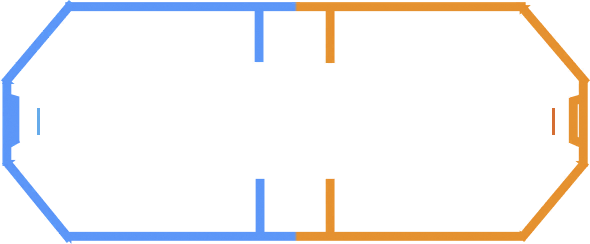
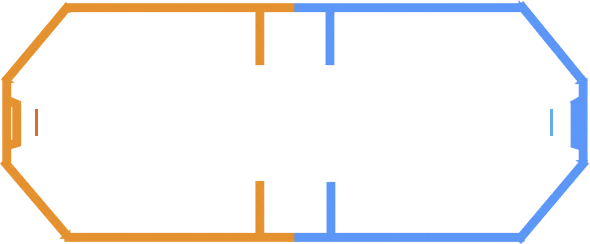
fixed public match uploads to Personal db, flipped compact minimap, emote and local throw work in all game states

Changed region(s): [[0.0, 0.0, 1.0, 1.0]]

diff --git a/Windows/LiveWindow/LiveWindow.xaml b/Windows/LiveWindow/LiveWindow.xaml
@@ -528,7 +528,7 @@
 					<Button x:Name="enableAPIButton"  Visibility="Collapsed" Content="{x:Static p:Resources.Enable_API_in_Settings}" Height="40" Margin="4,4,4,4" Click="enableAPIButton_Click"/>
 					<StackPanel Orientation="Horizontal">
 						<Button x:Name="startSpectatorStream" Content="{x:Static p:Resources.Open_Spectatorstream}" Height="40" Width="153" Margin="4,4,1,4" Click="StartSpectatorStreamClick" ToolTip="{x:Static p:Resources.Spectatorstream_tooltip}"/>
-						<Button Height="40" Width="25" Margin="1,4,4,4" Click="CombatSpectatorstreamClick" Visibility="Visible">
+						<Button Height="40" Width="25" Margin="1,4,4,4" Click="CombatSpectatorstreamClick" Visibility="Visible" ToolTip="{x:Static p:Resources.Opens_Spectatorstream_for_Echo_Combat_matches_}">
 							<Image Source="/img/flamingo-white.png" Margin="3,3,3,3"/>
 						</Button>
 					</StackPanel>

diff --git a/Program.cs b/Program.cs
@@ -1736,7 +1736,72 @@ namespace Spark
 					LogRow(LogType.Error, "Error processing action", exp.ToString());
 				}
 			}
+			
+			
+			// Generate events for each player even when not playing
+			foreach (Team team in frame.teams)
+			{
+				foreach (Player player in team.players)
+				{
+					Player lastPlayer = lastFrame.GetPlayer(player.userid);
+					if (lastPlayer == null) continue;
 
+					MatchPlayer playerData = CurrentRound.GetPlayerData(player);
+					if (playerData != null)
+					{
+						// check emote activation
+						if (player.is_emote_playing && !lastPlayer.is_emote_playing)
+						{
+							EventData eventData = new EventData(
+								CurrentRound,
+								EventContainer.EventType.emote,
+								frame.game_clock,
+								team,
+								player,
+								null,
+								player.head.Position,
+								player.velocity.ToVector3()
+							);
+							try
+							{
+								EmoteActivated?.Invoke(frame, team, player);
+							}
+							catch (Exception exp)
+							{
+								LogRow(LogType.Error, "Error processing action", exp.ToString());
+							}
+
+							CurrentRound.events.Enqueue(eventData);
+							
+							// emotes are always local-only
+							if (player.name == frame.client_name)
+							{
+								HighlightsHelper.SaveHighlightMaybe(player.name, frame, "EMOTE");
+							}
+						}
+					}
+				}
+			}
+			
+			
+			// check for local throws
+			if (!lastFrame.last_throw.Equals(frame.last_throw))
+			{
+				Team clientPlayerTeam = frame?.GetTeam(frame.client_name);
+				Player clientPlayer = frame?.GetPlayer(frame.client_name);
+
+				CurrentRound.events.Enqueue(new EventData(CurrentRound, EventContainer.EventType.local_throw,
+					frame.game_clock, clientPlayerTeam, clientPlayer, frame.last_throw));
+
+				try
+				{
+					LocalThrow?.Invoke(frame);
+				}
+				catch (Exception exp)
+				{
+					LogRow(LogType.Error, "Error processing action", exp.ToString());
+				}
+			}
 
 			// while playing and frames aren't identical
 			if (frame.game_status == "playing" && deltaTime != 0)
@@ -1754,24 +1819,6 @@ namespace Spark
 				}
 
 
-				// check for local throws
-				if (!lastFrame.last_throw.Equals(frame.last_throw))
-				{
-					Team clientPlayerTeam = frame?.GetTeam(frame.client_name);
-					Player clientPlayer = frame?.GetPlayer(frame.client_name);
-
-					CurrentRound.events.Enqueue(new EventData(CurrentRound, EventContainer.EventType.local_throw,
-						frame.game_clock, clientPlayerTeam, clientPlayer, frame.last_throw));
-
-					try
-					{
-						LocalThrow?.Invoke(frame);
-					}
-					catch (Exception exp)
-					{
-						LogRow(LogType.Error, "Error processing action", exp.ToString());
-					}
-				}
 
 				// Generate "playing" events
 				foreach (Team team in frame.teams)
@@ -1929,38 +1976,6 @@ namespace Spark
 						else
 						{
 							LogRow(LogType.Error, "PlayerData is null");
-						}
-						
-						
-						// check emote activation
-						if (player.is_emote_playing && !lastPlayer.is_emote_playing)
-						{
-							EventData eventData = new EventData(
-								CurrentRound,
-								EventContainer.EventType.emote,
-								frame.game_clock,
-								team,
-								player,
-								null,
-								player.head.Position,
-								player.velocity.ToVector3()
-							);
-							try
-							{
-								EmoteActivated?.Invoke(frame, team, player);
-							}
-							catch (Exception exp)
-							{
-								LogRow(LogType.Error, "Error processing action", exp.ToString());
-							}
-
-							CurrentRound.events.Enqueue(eventData);
-							
-							// emotes are always local-only
-							if (player.name == frame.client_name)
-							{
-								HighlightsHelper.SaveHighlightMaybe(player.name, frame, "EMOTE");
-							}
 						}
 
 
@@ -2740,10 +2755,12 @@ namespace Spark
 					{
 						// TODO find why finished and set reason
 						EventMatchFinished(lastFrame, frame, AccumulatedFrame.FinishReason.not_finished);
+						Error("Match finished for unknown reason");
 					}
 					else
 					{
 						EventMatchFinished(lastFrame, frame, AccumulatedFrame.FinishReason.not_finished);
+						Error("Match finished for unknown reason 2");
 					}
 
 					break;

diff --git a/Controllers/UploadController.cs b/Controllers/UploadController.cs
@@ -15,12 +15,17 @@ namespace Spark
 			Program.RoundOver += (frame, reason) =>
 			{
 				// if end of match upload
-				if (frame.game_status == "post_match")
+				// this excludes resets
+				if (reason != AccumulatedFrame.FinishReason.reset)
 				{
 					UploadMatchBatch(Program.CurrentRound, true);
 				}
+			};
+
+			Program.Goal += (frame, goalData) =>
+			{
 				// if during-match upload
-				else if (!DiscordOAuth.Personal && DiscordOAuth.AccessCode.series_name != "ignitevr")
+				if (!DiscordOAuth.Personal && DiscordOAuth.AccessCode.series_name != "ignitevr")
 				{
 					UploadMatchBatch(Program.CurrentRound, false);
 				}
@@ -82,7 +87,7 @@ namespace Spark
 			}
 			
 			// upload tablet stats as well
-			if (round.frame?.private_match == false) Program.AutoUploadTabletStats();
+			if (round.frame?.private_match == false && final) Program.AutoUploadTabletStats();
 		}
 
 		static async Task DoUploadMatchBatchIgniteDB(string data, string hash, string client_name)

diff --git a/Properties/Resources.Designer.cs b/Properties/Resources.Designer.cs
@@ -2669,6 +2669,15 @@ namespace Spark.Properties {
         }
         
         /// <summary>
+        ///   Looks up a localized string similar to Opens Spectatorstream for Echo Combat matches..
+        /// </summary>
+        public static string Opens_Spectatorstream_for_Echo_Combat_matches_ {
+            get {
+                return ResourceManager.GetString("Opens Spectatorstream for Echo Combat matches.", resourceCulture);
+            }
+        }
+        
+        /// <summary>
         ///   Looks up a localized string similar to Opens the folder where the event logs are stored on your computer. Only works once you have logged at least one event..
         /// </summary>
         public static string Opens_the_folder_where_the_event_logs_are_stored_on_your_computer__Only_works_once_you_have_logged_at_least_one_event_ {

diff --git a/Windows/LiveWindow/LiveWindow.xaml.cs b/Windows/LiveWindow/LiveWindow.xaml.cs
@@ -535,9 +535,10 @@ namespace Spark
 
 						// show the button once the player hasn't been getting data for some time
 						float secondsUntilRejoiner = 1f;
-						if (Program.lastFrame != null &&
+						if (!Program.InGame &&
+							Program.lastFrame != null &&
 						    Program.lastFrame.private_match &&
-						    Program.lastFrame.GetAllPlayers(true).Count > 1 &&	// if we weren't the lst
+						    Program.lastFrame.GetAllPlayers(true).Count > 1 &&	// if we weren't the last
 						    DateTime.Compare(Program.lastDataTime.AddSeconds(secondsUntilRejoiner), DateTime.UtcNow) < 0 &&
 						    SparkSettings.instance.echoVRIP == "127.0.0.1")
 						{
